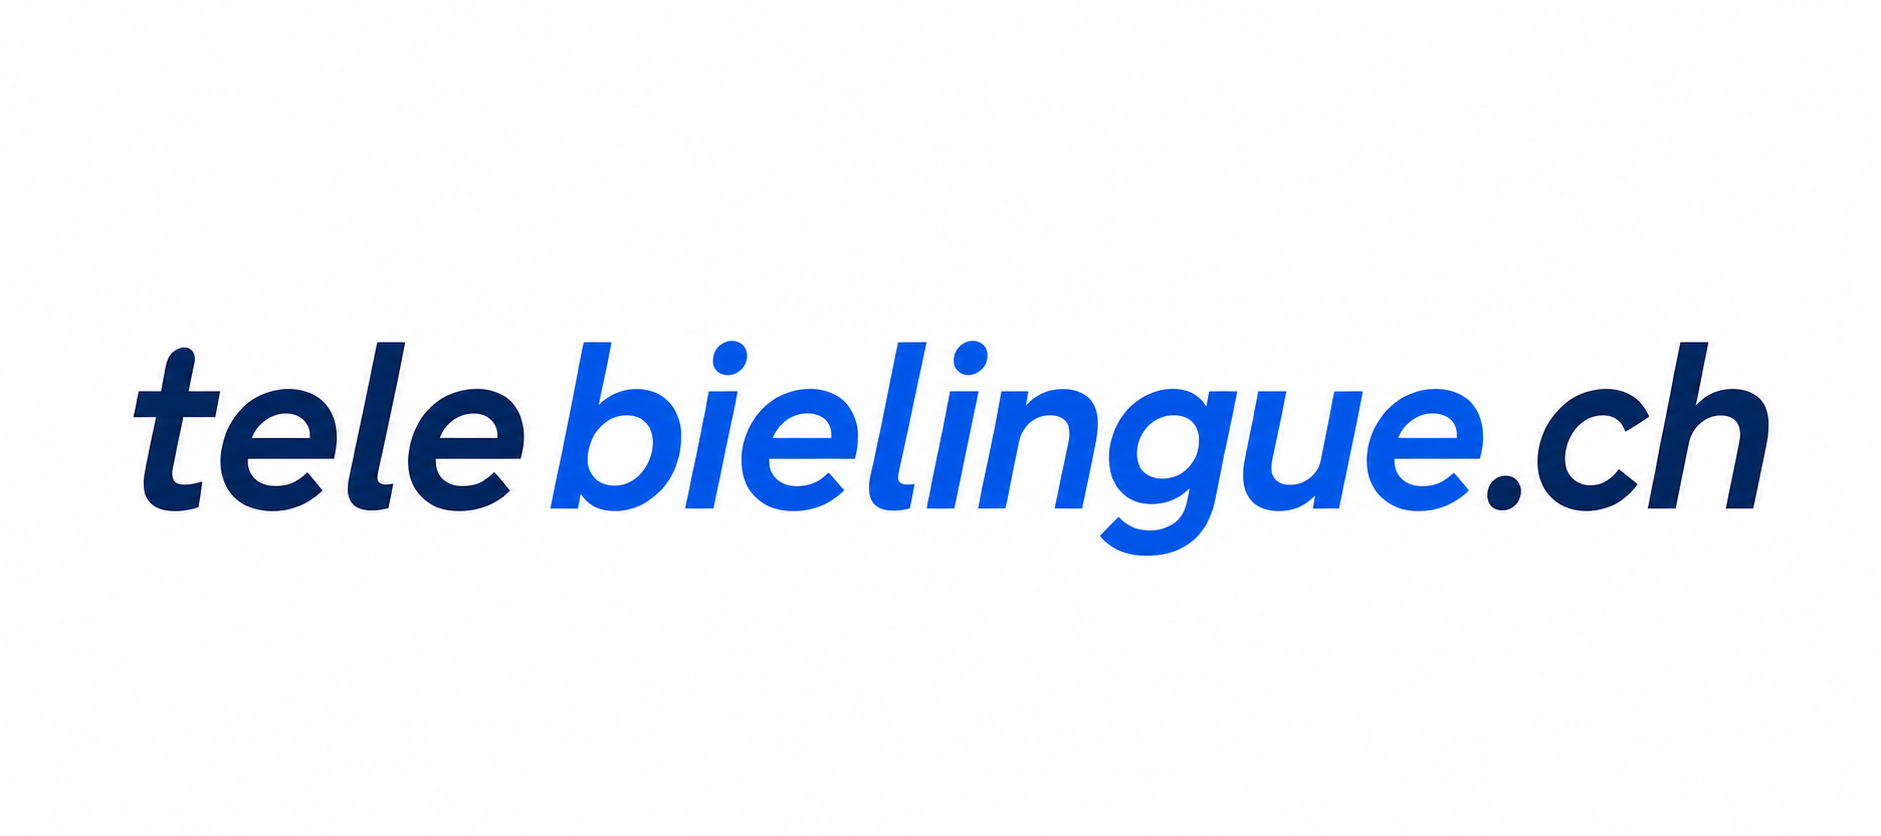
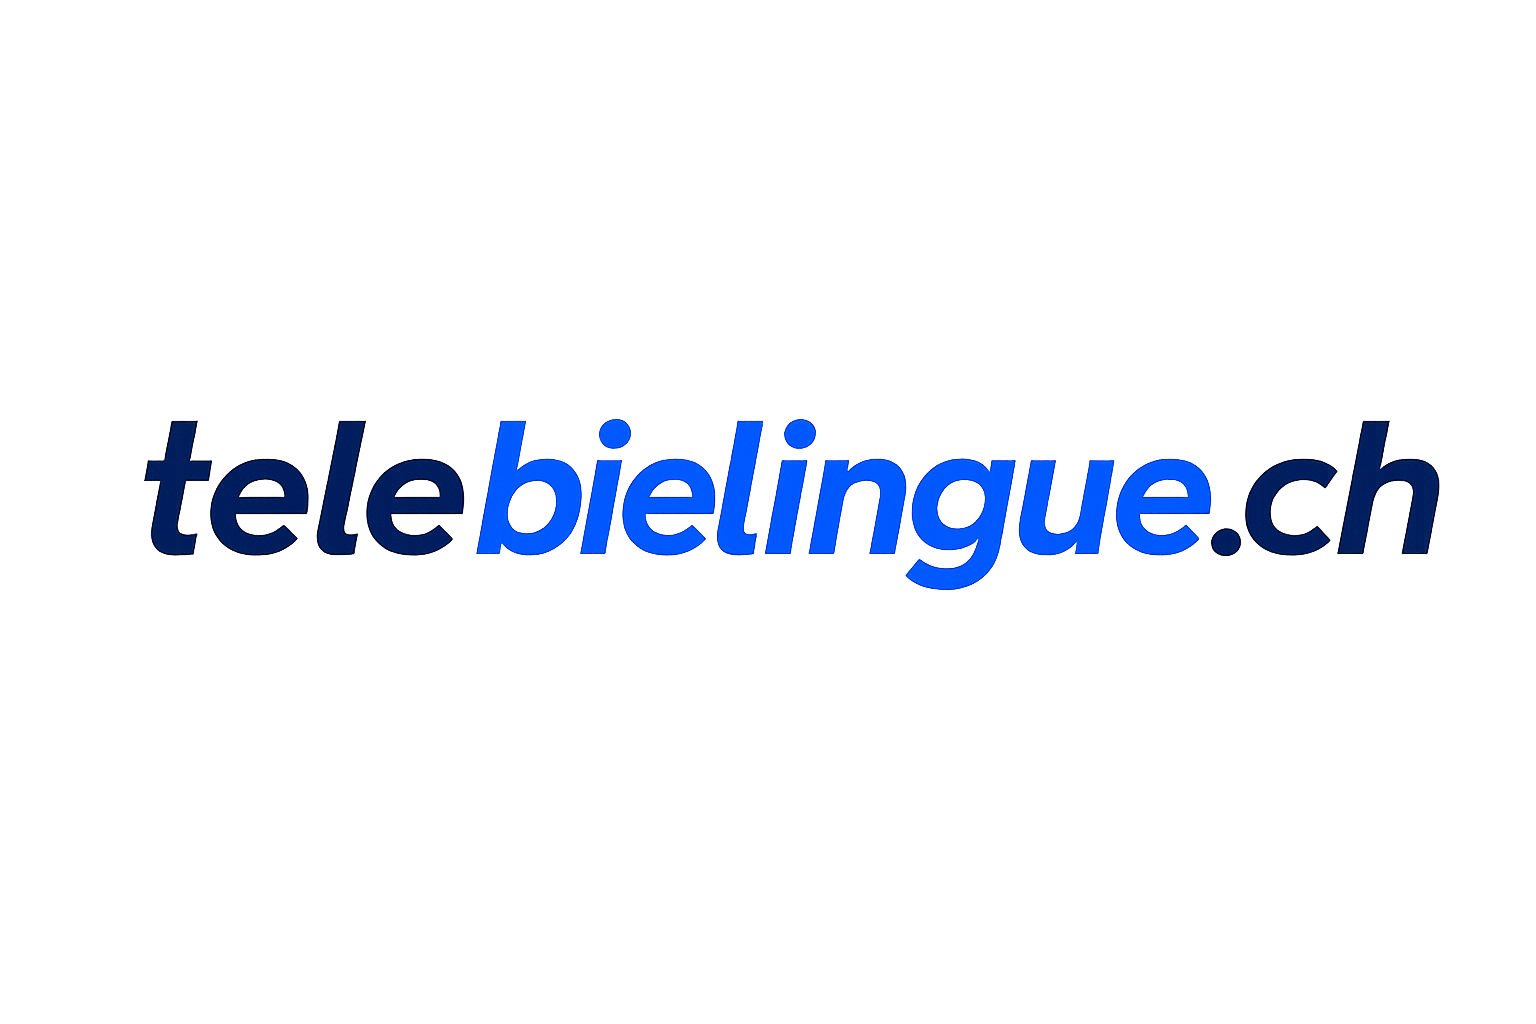
création de la page tb web

Changed region(s): [[0.0625, 0.4043, 0.9375, 0.6842]]

diff --git a/projets/site-web-tb.html b/projets/site-web-tb.html
@@ -6,7 +6,7 @@
     <meta name="viewport" content="width=device-width, initial-scale=1.0">
     <link rel="stylesheet" href="../styles.css">
     <link rel="stylesheet" href="https://cdnjs.cloudflare.com/ajax/libs/glightbox/3.3.1/css/glightbox.css">
-    <title>TB2Go - Stéphanie Calderara</title>
+    <title>Prototype site web - Stéphanie Calderara</title>
 </head>
 
 <body>
@@ -27,26 +27,25 @@
 
     <main>
         <section class="projects-text">
-            <img src="../images/tb2go.png" alt="TB2Go" class="projects-logo">
+            <img src="../images/telebielingue-ch.png" alt="Prototype site web" class="projects-logo">
             <p class="projects-subtitle">
-                Gestion et réservation de matériel
+                Prototype de site web pour une télévision locale
             </p>
 
             <p>
-                TB2Go est une application web développée pour centraliser et simplifier
-                la gestion du matériel technique au sein d’une télévision locale.
+                Ce projet présente un prototype fonctionnel de site web développé
+                pour une télévision locale.
             </p>
 
             <p>
-                Le projet est né d’un besoin concret : améliorer la réservation,
-                le suivi et la maintenance des équipements utilisés quotidiennement
-                par les équipes de production.
+                L’objectif était d’explorer une refonte moderne du site web,
+                avec une interface orientée contenu, vidéo et diffusion en direct 
             </p>
 
             </p>
-                L’application permet de gérer les réservations de matériel,
-                les utilisateurs, les catégories d’équipement, l’historique des emprunts
-                ainsi que le suivi des incidents techniques.
+                Le prototype inclut une interface publique ainsi qu’un système
+                d’administration permettant la gestion des émissions,
+                contenus promotionnels, partenaires et éléments visuels comme des slides.
             <p>
         </section>
 
@@ -59,7 +58,6 @@
                     <span>HTML</span>
                     <span>CSS</span>
                     <span>JavaScript</span>
-                    <span>Bootstrap</span>
                 </div>
             </div>
 
@@ -73,9 +71,17 @@
             </div>
 
             <div class="tech-group">
-                <strong>Base de données</strong>
+                <strong>Stockage des données</strong>
                 <div class="tech-badges">   
-                    <span>SQLite</span>
+                    <span>JSON</span>
+                </div>
+            </div>
+
+            <div class="tech-group">
+                <strong>Intégration</strong>
+                <div class="tech-badges">   
+                    <span>YouTube</span>
+                    <span>Google Maps</span>
                 </div>
             </div>
 
@@ -99,52 +105,40 @@
             <h3>Fonctionnalités clés</h3>
             <div class="feature-grid">
                 <div class="feature-card">
-                    <h4>Gestion des utilisateurs</h4>
+                    <h4>Gestion du contenu</h4>
                     <p>
-                        Système de gestion des utilisateurs avec rôles et permissions pour 
-                        contrôler l’accès aux différentes fonctionnalités de l’application.
+                        Création et modification des émissions, slides et contenus 
+                        promotionnels via une interface d’administration.
                     </p>
                 </div>
                 <div class="feature-card">
-                    <h4>Réservation de matériel</h4>
+                    <h4>Diffusion vidéo</h4>
                     <p>
-                        Système de réservation de matériel avec calendrier intégré pour gérer les disponibilités.
+                        Intégration de flux vidéo en direct et de contenus YouTube.                
                     </p>
                 </div>
                 <div class="feature-card">
-                    <h4>Suivi du matériel</h4>
+                    <h4>Architecture légère</h4>
                     <p>
-                        Fiches détaillées, catégories, images et informations techniques.
+                        Stockage JSON sans base de données pour un prototypage rapide.
                     </p>
                 </div>
                 <div class="feature-card">
-                    <h4>Historique des réservations</h4>
+                    <h4>Responsive design</h4>
                     <p>
-                        Historique complet des réservations et retours pour un suivi efficace.
+                        Interface adaptée sur ordinateur, tablette et mobile.
                     </p>
                 </div>
                 <div class="feature-card">
-                    <h4>Incidents techniques</h4>
+                    <h4>Intégrations externes</h4>
                     <p>
-                        Suivi et documentation des incidents techniques pour une résolution rapide.
-                    </p>
-                </div>
-                <div class="feature-card">
-                    <h4>Gestion centralisée</h4>
-                    <p>
-                        Gestion centralisée des équipements et catégories pour une meilleure organisation.
+                        Intégration de services externes comme YouTube et Google Maps.
                     </p>
                 </div>
                 <div class="feature-card">
                     <h4>Interface responsive</h4>
                     <p>
                         Utilisation adaptée sur ordinateur, tablette et mobile.
-                    </p>
-                </div>
-                <div class="feature-card">
-                    <h4>Connexion sécurisée</h4>
-                    <p>
-                        Gestion sécurisée des connexions utilisateurs.
                     </p>
                 </div>
             </div>
@@ -157,6 +151,13 @@
                 utilisés comme assistance au développement. Le besoin fonctionnel, les
                 choix d’orientation et les validations ont été définis et pilotés par mes soins
                 tout au long du projet.
+            </p>   
+
+            <p>
+                Les données sont stockées dans des fichiers JSON afin de garder une
+                architecture légère et adaptée à une phase de prototype. Cette structure
+                pourrait évoluer vers une base SQLite si le projet devait être utilisé
+                de manière plus complète.
             </p>   
         </section>
 
